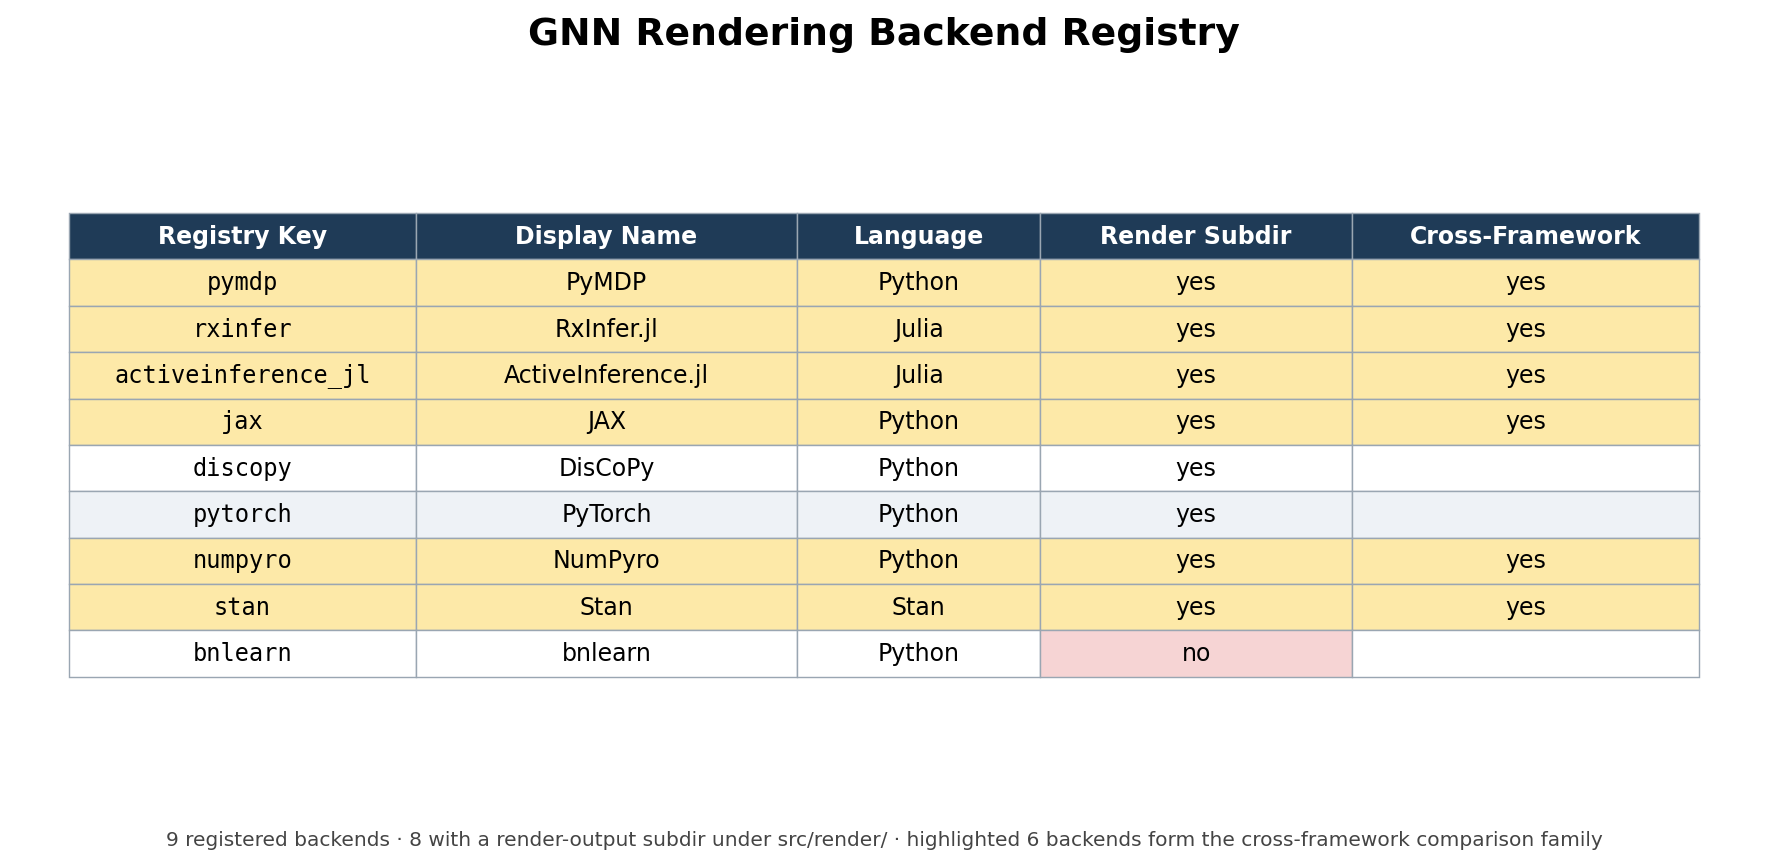
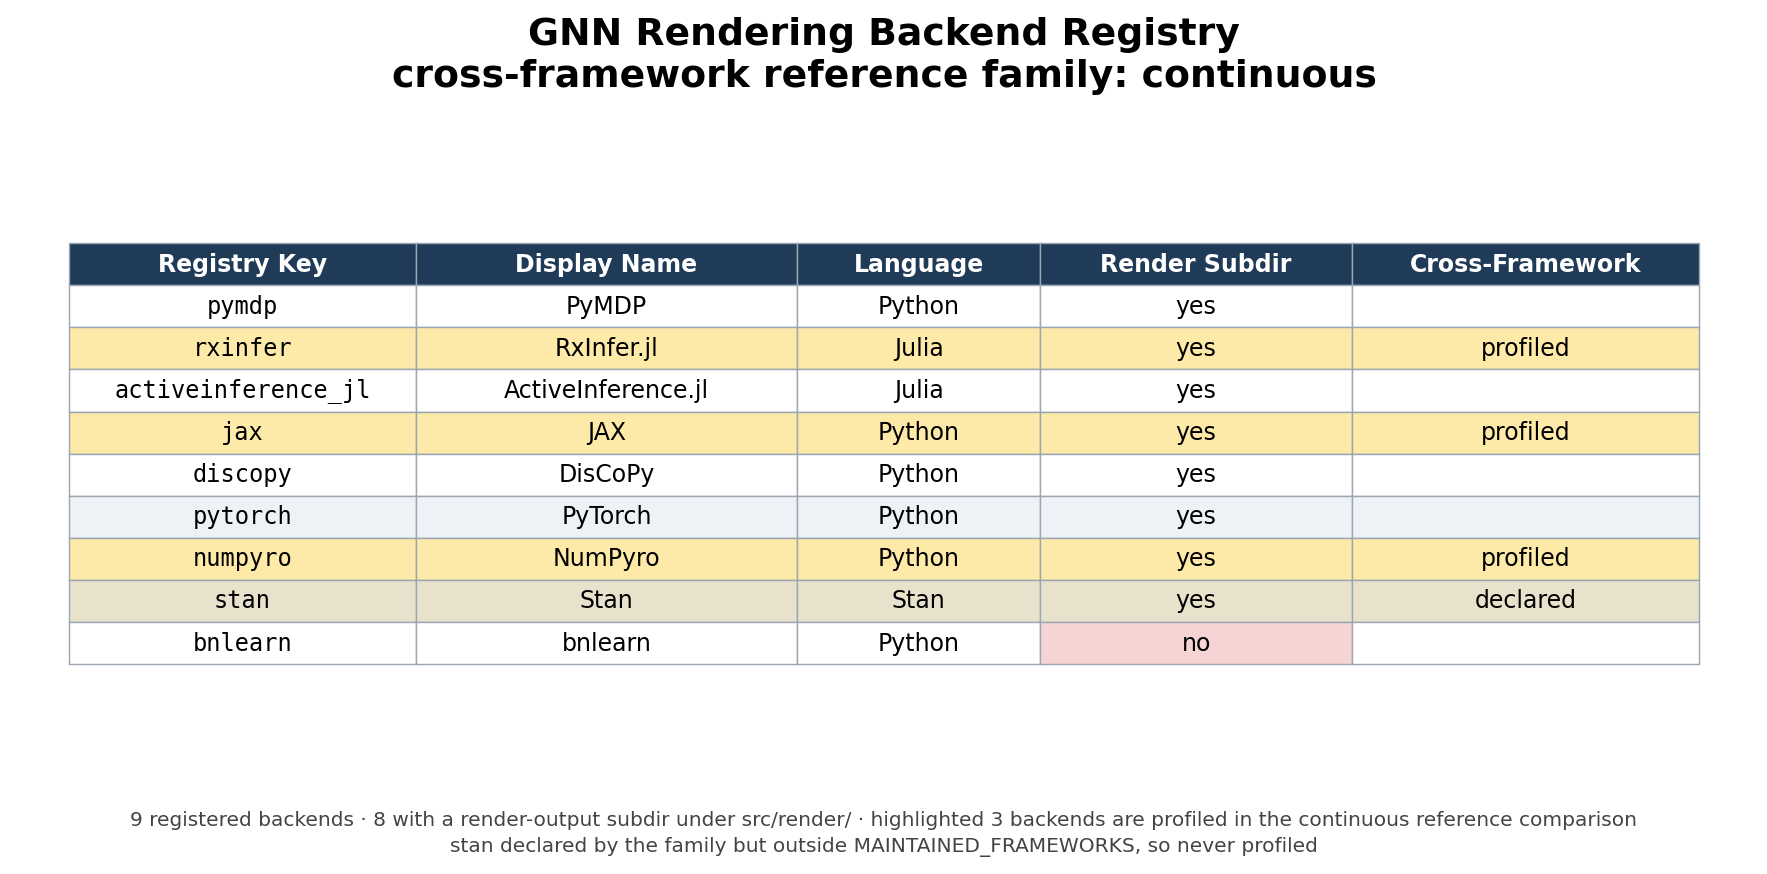
figures: label the set each bar counts; highlight one cross-framework family
GNN-ACC-08: fig:repo_metrics labelled GNN_BACKEND_COUNT (registry size, 9)
'Execution backends', contradicting tbl:backend_registry in the same PDF,
which reports bnlearn render-only. The registry size and the executable
subset are now separate bars (Registered backends 9 / Execution backends 8).

GNN-C03: fig:backend_matrix unioned every multi-framework manifest family
and called the union 'the cross-framework comparison family' (6). It now
selects the single reference family through
src.manuscript_variables.select_cross_framework_family — the same helper the
token map uses — intersected with MAINTAINED_FRAMEWORKS, so the highlighted
count equals GNN_CROSS_FRAMEWORK_BACKEND_COUNT (3). Stan is shown as
'declared' with a footer line saying the gate never profiles it.

Changed region(s): [[0.0311, 0.218, 0.9649, 0.8097], [0.0934, 0.9343, 0.9338, 0.9965], [0.2179, 0.0311, 0.7782, 0.1246]]

diff --git a/scripts/manuscript_fig_backend_matrix.py b/scripts/manuscript_fig_backend_matrix.py
@@ -4,8 +4,10 @@
 Thin orchestrator. Reads real data from:
   - src/render/framework_registry.py (FRAMEWORK_REGISTRY: registry key, display name)
   - src/render/<key>/ subdirectory existence (render-output presence)
-  - input/model_family_manifest.json (cross-framework comparison family:
-    the family whose comma-separated "frameworks" lists more than one backend)
+  - input/model_family_manifest.json + src/pipeline/cross_framework_reliability.py
+    (the single cross-framework comparison family selected by
+    src.manuscript_variables.select_cross_framework_family, intersected with the
+    reliability gate's MAINTAINED_FRAMEWORKS)
 
 Writes output/figures/gnn_backend_capability_matrix.png at >=150 DPI.
 No timestamps, no randomness; output is a pure function of the source files.
@@ -14,6 +16,7 @@ No timestamps, no randomness; output is a pure function of the source files.
 from __future__ import annotations
 
 import json
+import re
 import sys
 from pathlib import Path
 
@@ -23,6 +26,8 @@ matplotlib.use("Agg")
 import matplotlib.pyplot as plt
 
 PROJECT_ROOT = Path(__file__).resolve().parents[1]
+if str(PROJECT_ROOT) not in sys.path:
+    sys.path.insert(0, str(PROJECT_ROOT))
 SRC = PROJECT_ROOT / "src"
 RENDER_DIR = SRC / "render"
 MANIFEST = PROJECT_ROOT / "input" / "model_family_manifest.json"
@@ -37,37 +42,59 @@ def load_registry() -> dict:
     return dict(FRAMEWORK_REGISTRY)
 
 
-def cross_framework_backends() -> set[str]:
-    """Backends in the manifest family whose 'frameworks' lists >1 backend."""
+def cross_framework_backends() -> tuple[str, list[str], list[str]]:
+    """Return ``(family_name, profiled_keys, declared_only_keys)``.
+
+    The highlighted set is the ONE reference-comparison family — selected by the
+    same helper the token map uses, so the figure and the prose cannot name
+    different sets — intersected with the reliability gate's
+    ``MAINTAINED_FRAMEWORKS``. Previously this unioned every multi-framework
+    family and the footer called the union "the cross-framework comparison
+    family", producing a third cardinality for one concept inside one document.
+    """
+    from src.manuscript_variables import select_cross_framework_family
+
     manifest = json.loads(MANIFEST.read_text())
-    cross: set[str] = set()
-    for fam in manifest.get("families", []):
-        raw = fam.get("frameworks", "")
-        parts = (
-            [p.strip() for p in raw.split(",") if p.strip()]
-            if isinstance(raw, str)
-            else list(raw)
-        )
-        if len(parts) > 1:
-            cross.update(parts)
-    return cross
+    family = select_cross_framework_family(manifest.get("families", []))
+    if family is None:
+        return "", [], []
+    declared = [
+        k.strip() for k in str(family.get("frameworks", "")).split(",") if k.strip()
+    ]
+
+    gate = (SRC / "pipeline" / "cross_framework_reliability.py").read_text()
+    block = re.search(r"MAINTAINED_FRAMEWORKS = \(([^)]*)\)", gate)
+    maintained = set(re.findall(r'"([a-z_]+)"', block.group(1))) if block else set()
+    if not maintained:
+        return str(family.get("name", "")), declared, []
+    profiled = [k for k in declared if k in maintained]
+    declared_only = [k for k in declared if k not in maintained]
+    return str(family.get("name", "")), profiled, declared_only
 
 
 def main() -> None:
     registry = load_registry()
-    cross = cross_framework_backends()
+    family_name, profiled, declared_only = cross_framework_backends()
+    profiled_set = set(profiled)
+    declared_only_set = set(declared_only)
 
     rows = []
     for key, spec in registry.items():
         subdir = RENDER_DIR / key
         has_dir = subdir.is_dir()
+        if key in profiled_set:
+            cross_cell = "profiled"
+        elif key in declared_only_set:
+            cross_cell = "declared"
+        else:
+            cross_cell = ""
         rows.append(
             [
                 key,
                 spec["name"],
                 spec.get("language", ""),
                 "yes" if has_dir else "no",
-                "yes" if key in cross else "",
+                cross_cell,
             ]
         )
 
@@ -78,6 +105,7 @@ def main() -> None:
         "Render Subdir",
         "Cross-Framework",
     ]
+    subtitle = f"cross-framework reference family: {family_name}" if family_name else ""
 
     plt.rcParams.update({"font.family": "DejaVu Sans", "font.size": 10})
     n_rows = len(rows)
@@ -85,7 +113,7 @@ def main() -> None:
     fig, ax = plt.subplots(figsize=(10.5, fig_h))
     ax.axis("off")
     ax.set_title(
-        "GNN Rendering Backend Registry",
+        "GNN Rendering Backend Registry" + (f"\n{subtitle}" if subtitle else ""),
         fontsize=16,
         fontweight="bold",
         pad=18,
@@ -104,6 +132,7 @@ def main() -> None:
 
     header_bg = "#1f3b57"
     cross_bg = "#fde9a8"
+    declared_bg = "#e8e2cd"
     nosub_bg = "#f6d4d4"
     stripe_bg = "#eef2f6"
 
@@ -119,10 +148,13 @@ def main() -> None:
             cell.set_text_props(color="white", fontweight="bold")
             continue
         row = rows[r - 1]
-        is_cross = row[4] == "yes"
+        is_cross = row[4] == "profiled"
+        is_declared_only = row[4] == "declared"
         no_sub = row[3] == "no"
         if is_cross:
             cell.set_facecolor(cross_bg)
+        elif is_declared_only:
+            cell.set_facecolor(declared_bg)
         elif no_sub and c == 3:
             cell.set_facecolor(nosub_bg)
         elif r % 2 == 0:
@@ -134,15 +166,32 @@ def main() -> None:
 
     n_backends = len(rows)
     n_with_dir = sum(1 for row in rows if row[3] == "yes")
-    n_cross = sum(1 for row in rows if row[4] == "yes")
+    n_cross = len(profiled)
     caption = (
         f"{n_backends} registered backends · {n_with_dir} with a render-output "
-        f"subdir under src/render/ · highlighted {n_cross} backends form the "
-        f"cross-framework comparison family"
+        f"subdir under src/render/ · highlighted {n_cross} backends are profiled "
+        f"in the {family_name or 'cross-framework'} reference comparison"
     )
-    fig.text(0.5, 0.03, caption, ha="center", fontsize=8.5, color="#444444")
+    if declared_only:
+        # Second line: bbox_inches="tight" grows the whole figure to fit a long
+        # single-line caption, which shrinks the table when the PNG is scaled
+        # into a PDF column.
+        caption += (
+            f"\n{', '.join(declared_only)} declared by the family but outside "
+            "MAINTAINED_FRAMEWORKS, so never profiled"
+        )
+    fig.text(
+        0.5,
+        0.02,
+        caption,
+        ha="center",
+        va="bottom",
+        fontsize=8.5,
+        color="#444444",
+        linespacing=1.5,
+    )
 
-    fig.tight_layout(rect=(0, 0.05, 1, 1))
+    fig.tight_layout(rect=(0, 0.08, 1, 1))
     OUT_PNG.parent.mkdir(parents=True, exist_ok=True)
     fig.savefig(OUT_PNG, dpi=170, bbox_inches="tight")
     plt.close(fig)

diff --git a/scripts/manuscript_fig_repo_metrics.py b/scripts/manuscript_fig_repo_metrics.py
@@ -23,10 +23,18 @@ DATA_PATH = REPO_ROOT / "output" / "data" / "manuscript_variables.json"
 OUTPUT_PATH = REPO_ROOT / "output" / "figures" / "gnn_repo_metrics.png"
 
 # (json_key, human-readable label) — order is rendering order (top to bottom).
+#
+# The label must name the set the token counts. GNN_BACKEND_COUNT is
+# len(FRAMEWORK_REGISTRY) — the *registered* backends, one of which (bnlearn)
+# is render-only with no Step-12 executor, exactly as the same document's
+# tbl:backend_registry reports. Labelling it "Execution backends" put a figure
+# in section 4 that contradicted a table in section 3. Both sets are shown, so
+# the distinction is visible rather than resolved by picking one.
 METRICS: list[tuple[str, str]] = [
     ("GNN_STEP_COUNT", "Pipeline steps"),
     ("GNN_FAMILY_COUNT", "Model families"),
-    ("GNN_BACKEND_COUNT", "Execution backends"),
+    ("GNN_BACKEND_COUNT", "Registered backends"),
+    ("GNN_EXECUTABLE_BACKEND_COUNT", "Execution backends"),
     ("GNN_MCP_TOOL_COUNT", "MCP tools"),
     ("GNN_SRC_PACKAGE_COUNT", "Source packages"),
     ("GNN_TEST_FILE_COUNT", "Test files"),
@@ -60,7 +68,8 @@ def main() -> None:
         fontweight="bold",
     )
 
-    # Log scale keeps small (steps=25) and large (docs=606) bars all legible.
+    # Log scale keeps the small bars (pipeline steps) and the large ones
+    # (documentation files) legible in one frame.
     ax.set_xscale("log")
     ax.set_xlim(1, max(values) * 1.6)
 
